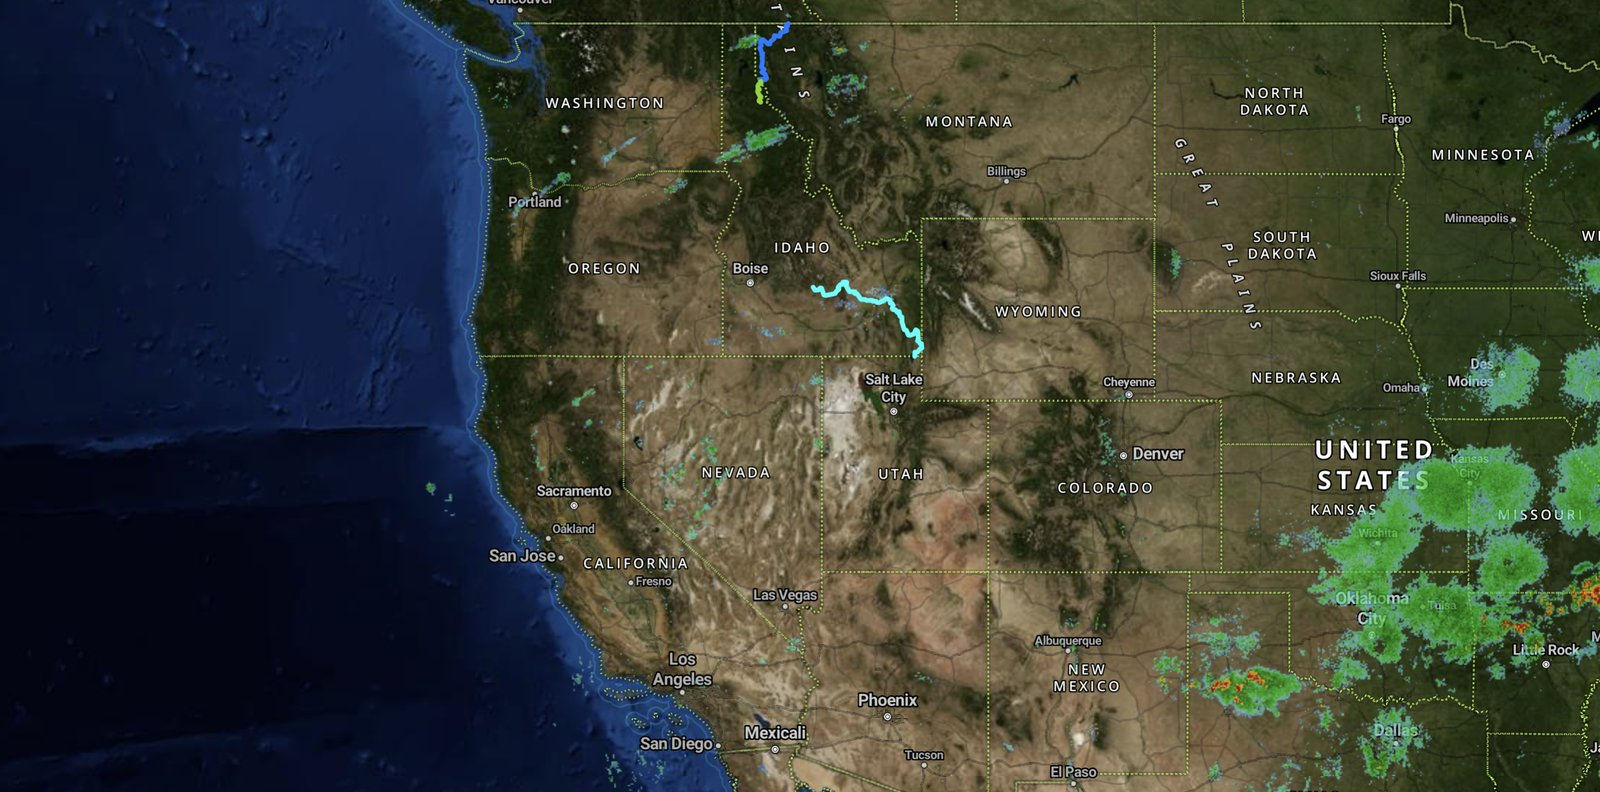
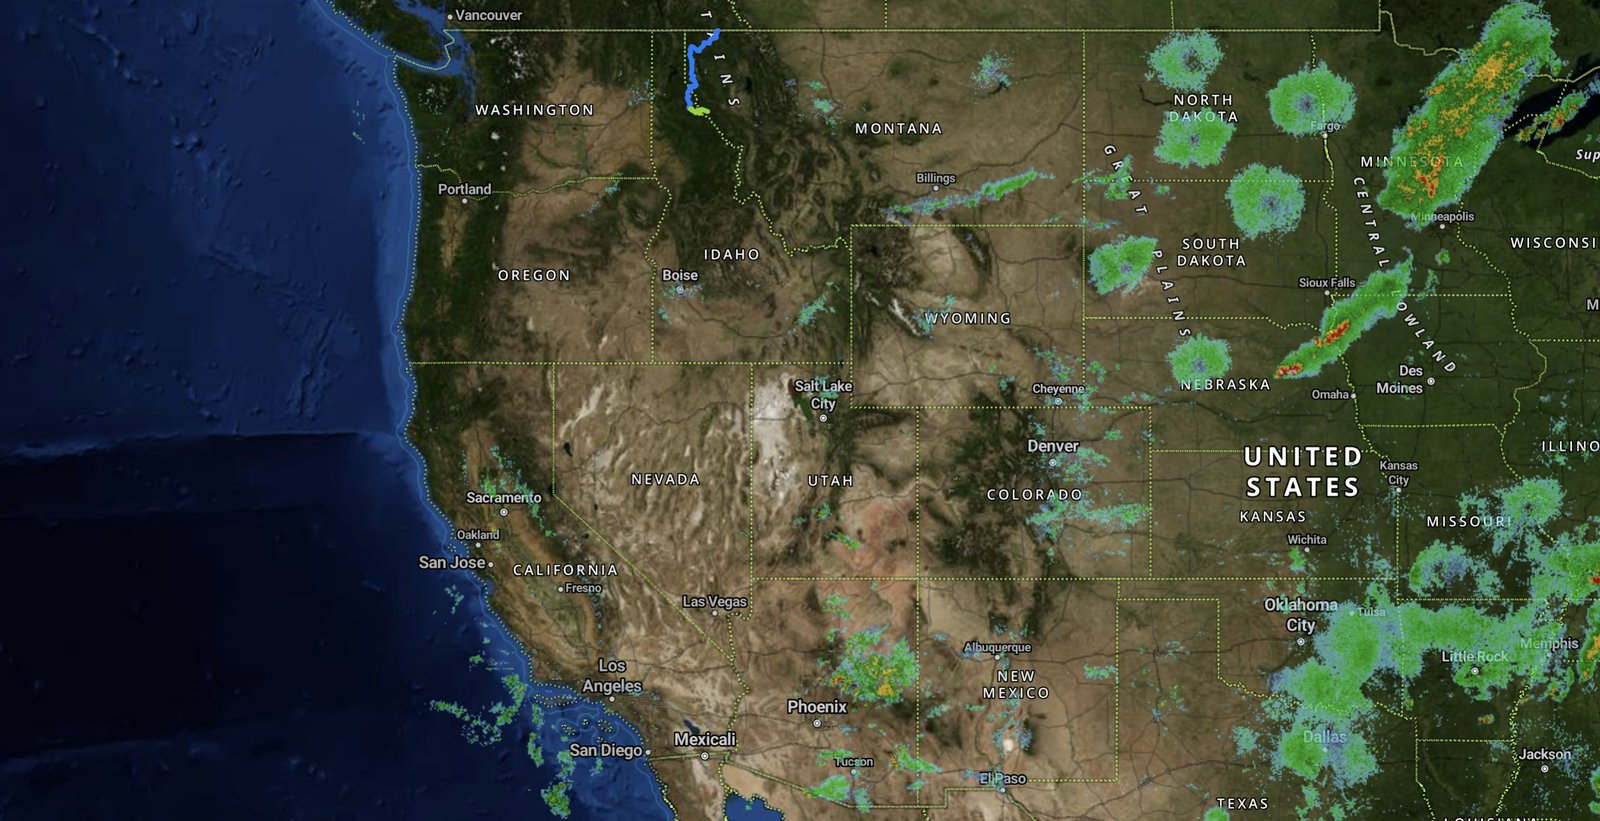
Progress map through day 6

diff --git a/rick/data.js b/rick/data.js
@@ -50,7 +50,7 @@ const LOCATION = {lat:47.37447, lng:-115.36806, town:"DeBorgia", state:"MT", lab
 const STATUS = "Day 6 is in the books: 46.3 miles from Placer Creek over two high points, an afternoon on a quiet stretch of the Hiawatha rail trail, and down the St Regis River to camp near DeBorgia, MT. 6,051 ft of climbing, the most of any day so far. He is 15.2 miles ahead of plan with 27.2 miles left to Superior, MT tomorrow to close out segment 1."; 
 // Cover photo for the top of the tracker page (file name without .jpg, from rick/photos/). Use a wide crop; the bottom third fades into the page.
 // Zoomed-out map of the whole West with Rick's track so far (screenshot from the Windy/onX view). Re-shoot every few days, overwrite the same file, update asOf.
-const PROGRESS_MAP = {file:"wwr-progress-map", asOf:"Sept 10, 2026, end of day 5", caption:"Blue and green at the top is Rick's track so far, Roosville to Placer Creek near Wallace, with today's ride in green. The route runs south through Idaho, Utah and Arizona to the Mexican border at Sierra Vista."};
+const PROGRESS_MAP = {file:"wwr-progress-map", asOf:"Sept 11, 2026, end of day 6", caption:"Blue and green at the top is Rick's track so far, Roosville to the St Regis River near DeBorgia, MT, with today's ride in green. The route runs south through Idaho, Utah and Arizona to the Mexican border at Sierra Vista."};
 const COVER = "2026-09-06-roosville-start-cover";
 
 // Photos: file names live in rick/photos/. Add the full-size jpg plus a -thumb.jpg. Newest first.
